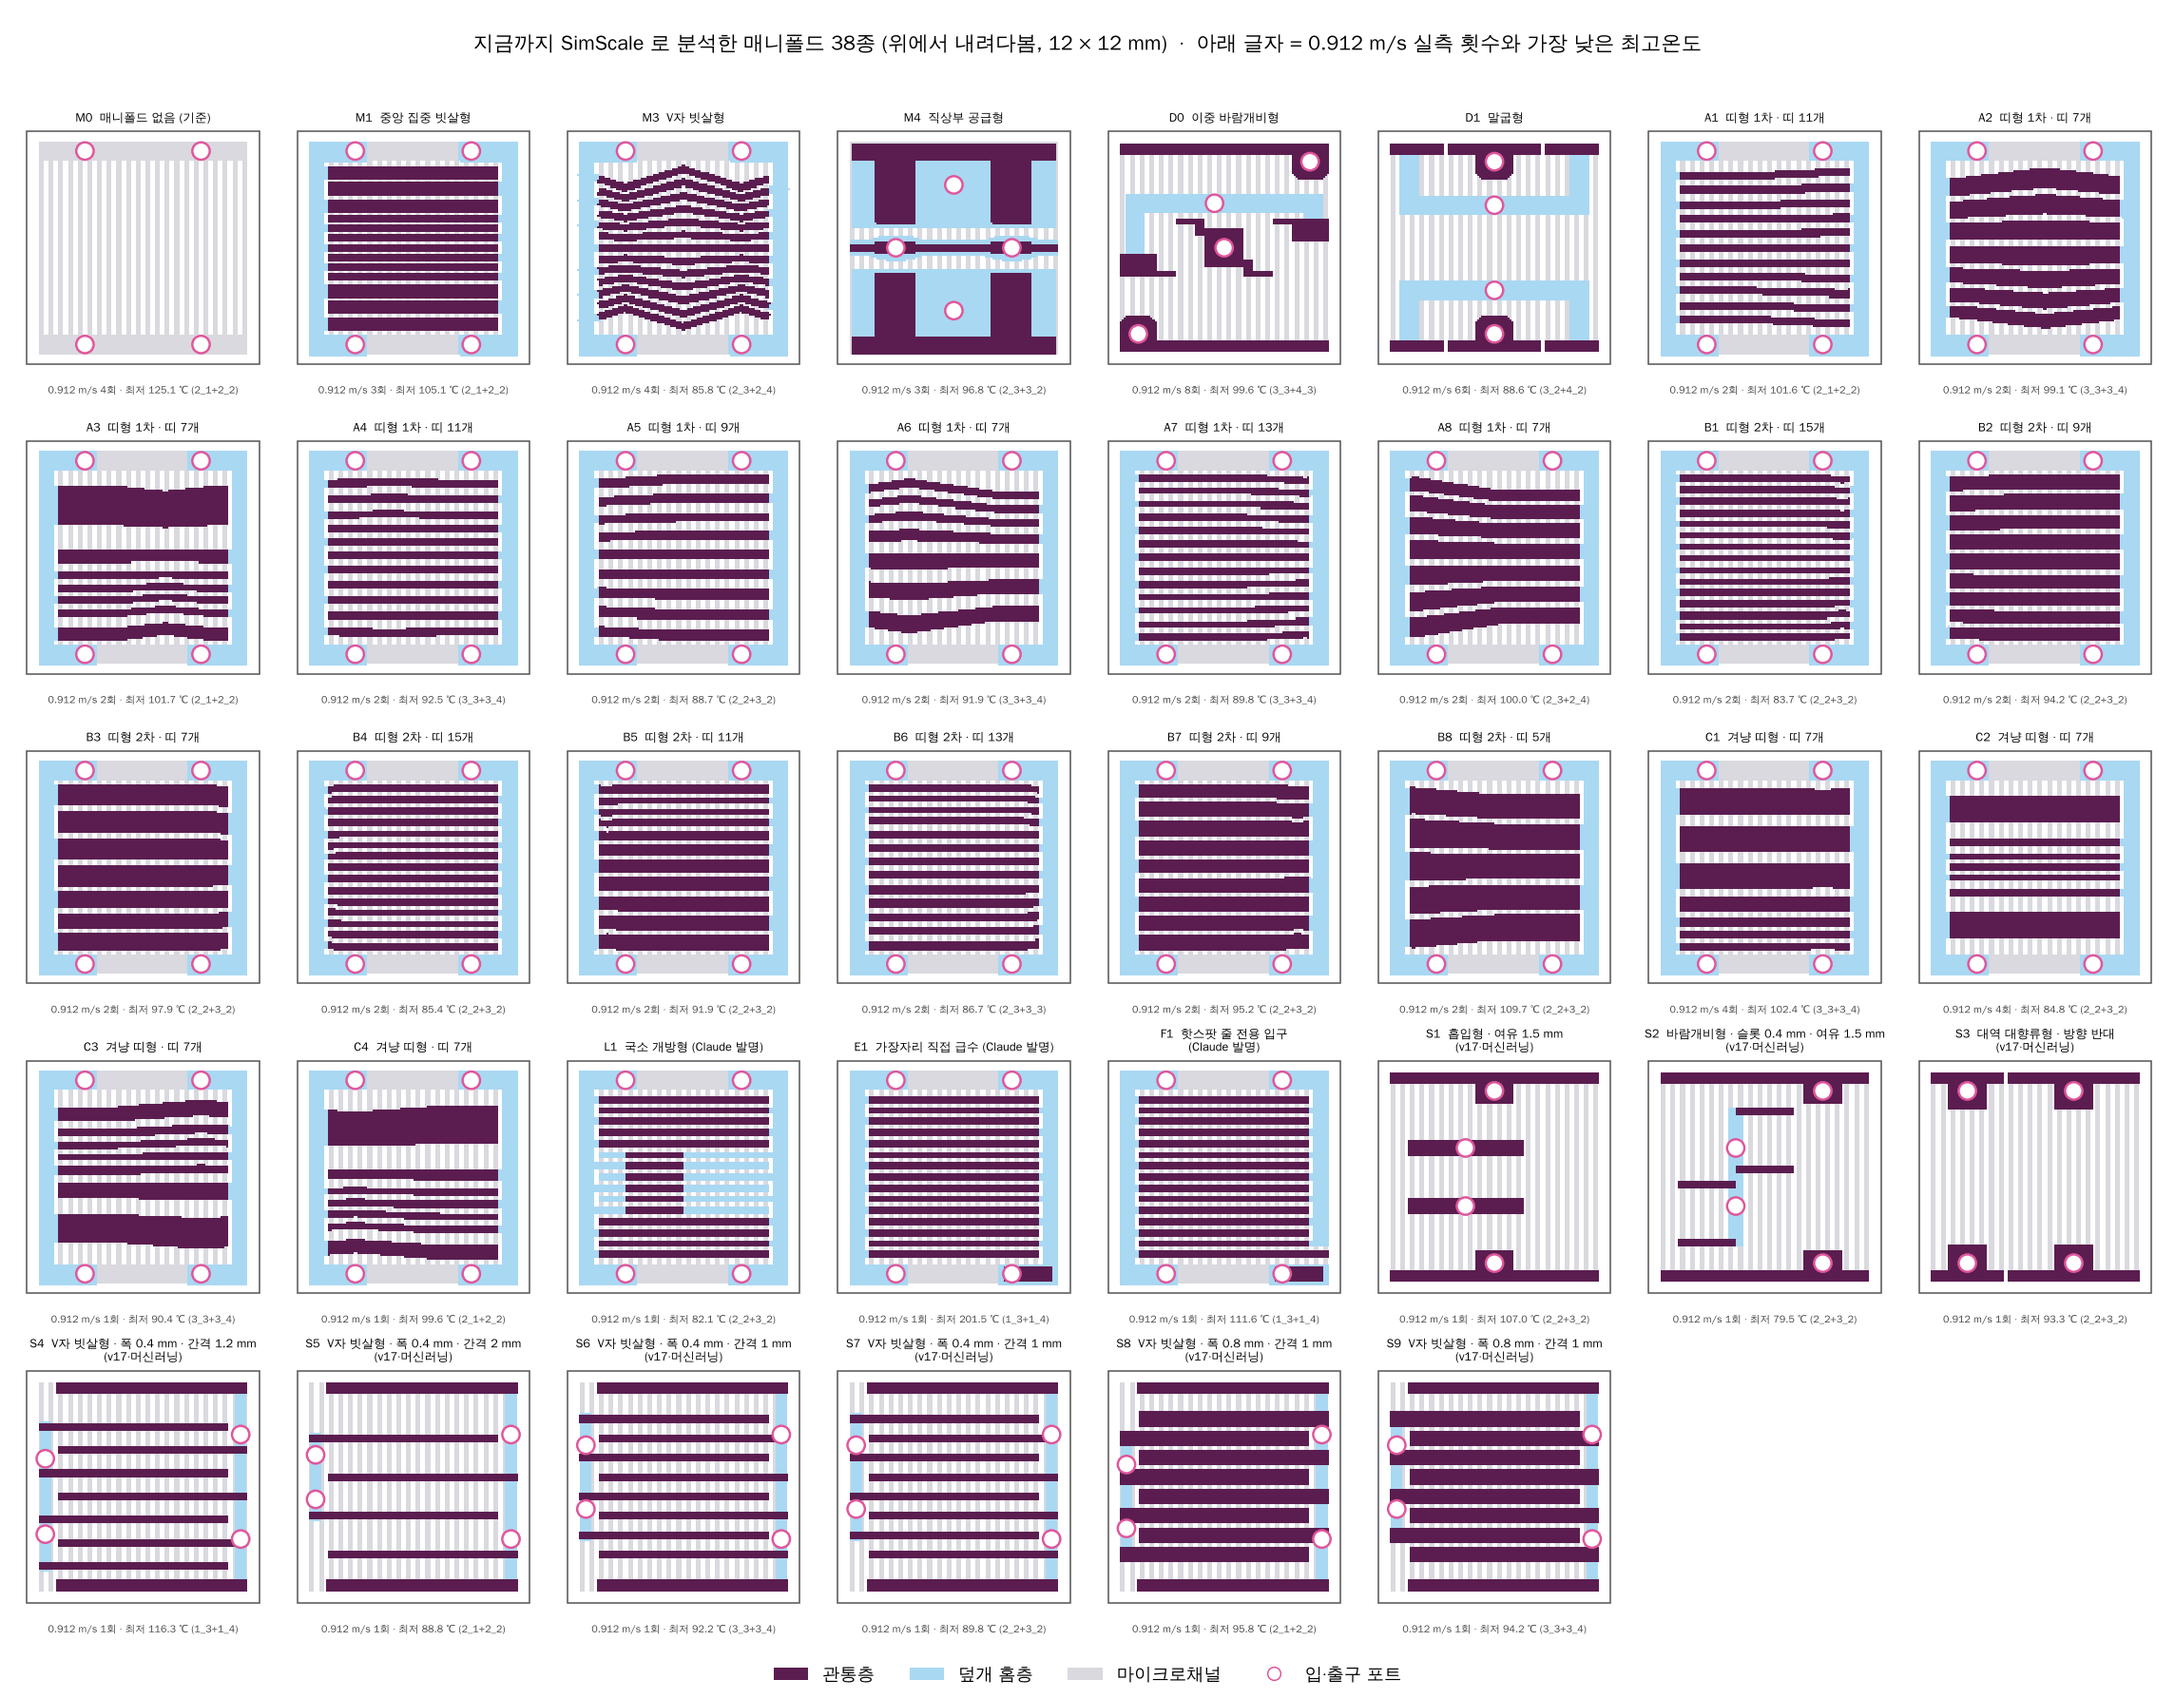
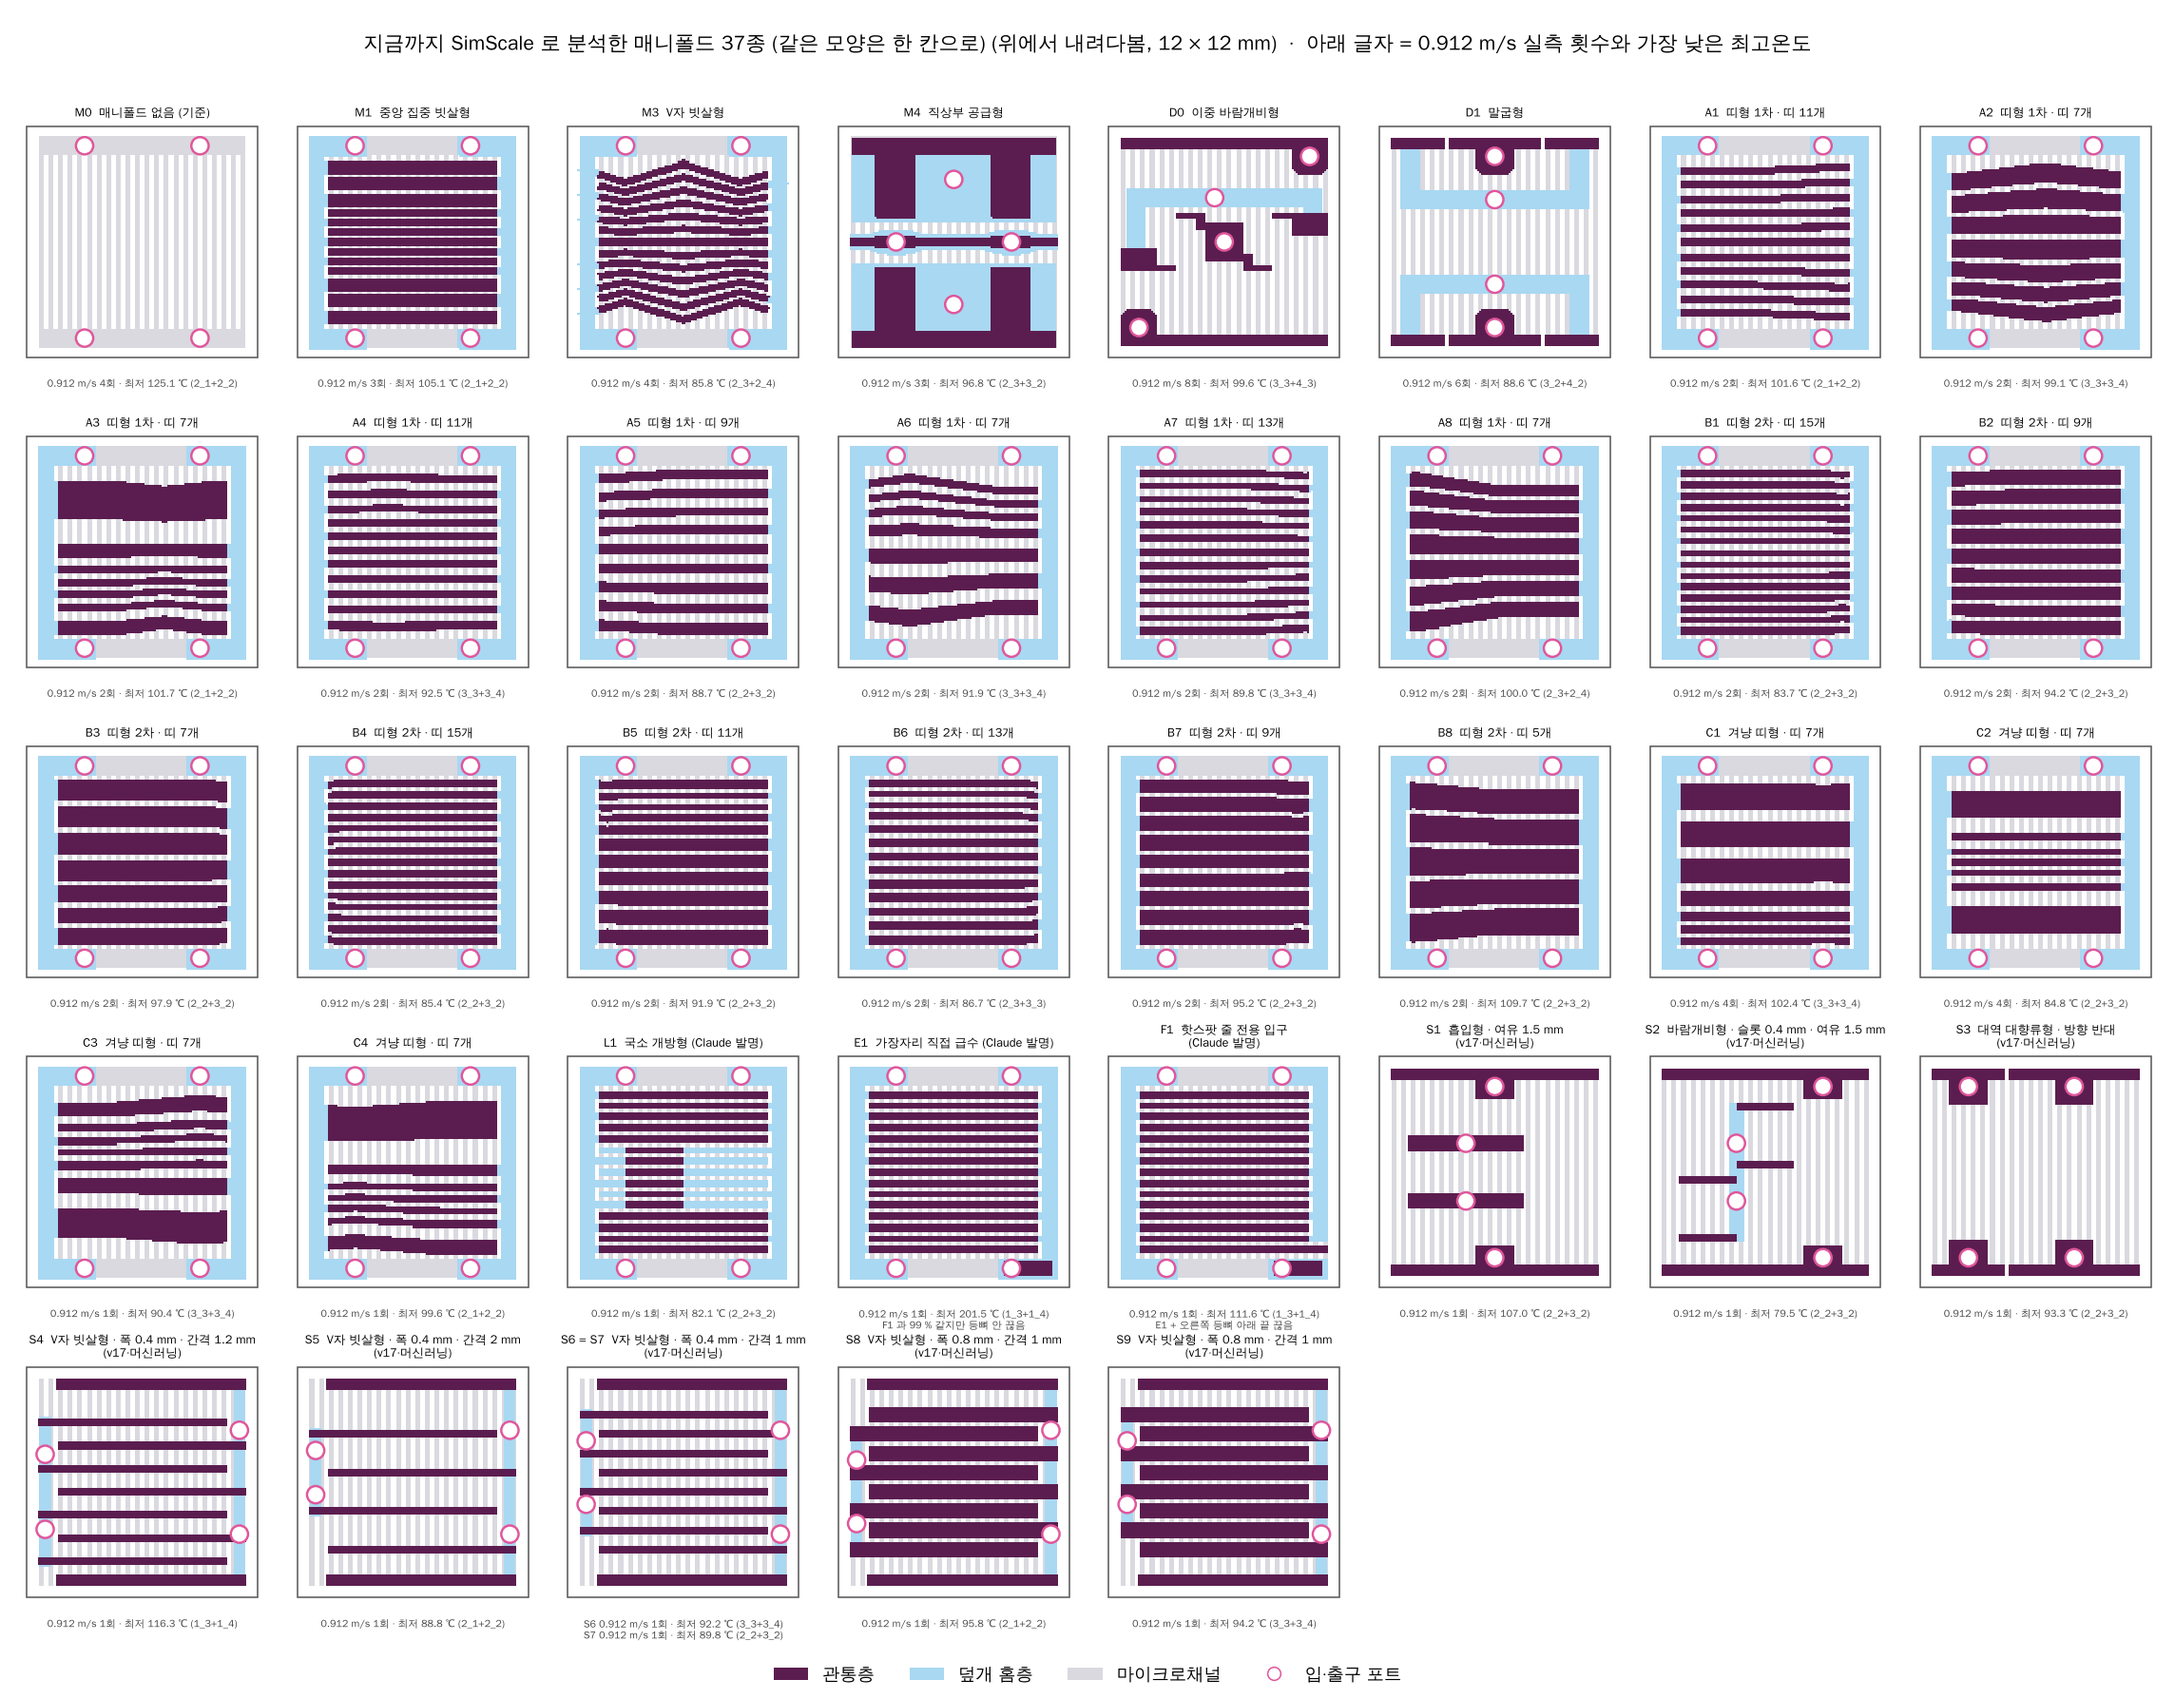
Gallery: merge identical shapes (S6 = S7), note E1 vs F1 difference
Claude-Session: https://claude.ai/code/session_01F34fVoYo4PK5WAY5b6GT71

Changed region(s): [[0.0, 0.0616, 0.993, 0.9849], [0.2172, 0.0, 0.8378, 0.0308]]

diff --git a/manifold_agent/geometry/plot_gallery.py b/manifold_agent/geometry/plot_gallery.py
@@ -14,11 +14,14 @@ C_P, C_U, C_CH, C_PORT = "#5b1d4f", "#a9d8f2", "#d9d9df", "#e0569b"
 STRIP_PORTS = [[3, 1], [3, 11], [9, 1], [9, 11]]
 
 runs = list(csv.DictReader(open(ROOT / "data/direct_runs.csv", encoding="utf-8")))
-def record(d):
-    r = [x for x in runs if x["design"] == d and abs(float(x["inlet_velocity_m_s"]) - 0.912) < 1e-3]
-    if not r: return ""
-    b = min(r, key=lambda x: float(x["Tmax_bottom_C"]))
-    return f"0.912 m/s {len(r)}회 · 최저 {float(b['Tmax_bottom_C']):.1f} ℃ ({b['heat'].split('at ')[1].replace(',', '+')})"
+def record(names):
+    out = []
+    for d in names.split(" = "):
+        r = [x for x in runs if x["design"] == d and abs(float(x["inlet_velocity_m_s"]) - 0.912) < 1e-3]
+        if not r: continue
+        b = min(r, key=lambda x: float(x["Tmax_bottom_C"]))
+        out.append(f"{d + ' ' if ' = ' in names else ''}0.912 m/s {len(r)}회 · 최저 {float(b['Tmax_bottom_C']):.1f} ℃ ({b['heat'].split('at ')[1].replace(',', '+')})")
+    return "\n".join(out)
 
 D = json.loads((ROOT / "geometry/src/designs.json").read_text())
 items = []   # (이름, 설명, P, U, 포트, 헤더형)
@@ -47,6 +50,21 @@ for i in range(1, 20):
     short = base.replace("(양끝 공급, 핫스팟 위 배출) ", "").replace(" · 슬롯이 핫스팟 바깥", "").replace("빗살 폭 ", "폭 ").replace("좌우 여유 ", "여유 ").strip(" ·")
     items.append((f"S{i}", f"{short} (v17·머신러닝)", cav, gro, m["pin"] + m["pout"], 0))
 
+# 같은 모양 합치기: 관통층·덮개 홈이 둘 다 99.9 % 이상 같으면 한 칸 (예: S6 = S7, 핫스팟만 다르게 돌림)
+def _n(A):
+    if A is None: return None
+    A = np.asarray(A)
+    return (A.reshape(120, 2, 120, 2).max(axis=(1, 3)) if A.shape[0] == 240 else A) > 0
+_iou = lambda X, Y: (X & Y).sum() / max((X | Y).sum(), 1)
+merged = []
+for it in items:
+    for m in merged:
+        if it[2] is not None and m[2] is not None and it[5] == m[5] and _iou(_n(it[2]), _n(m[2])) > .999 and _iou(_n(it[3]), _n(m[3])) > .999:
+            m[0] = m[0] + " = " + it[0]; break
+    else:
+        merged.append(list(it))
+items = [tuple(m) for m in merged]
+NOTE = {"F1": "E1 + 오른쪽 등뼈 아래 끝 끊음", "E1": "F1 과 99 % 같지만 등뼈 안 끊음"}
 ncol = 8; nrow = -(-len(items) // ncol)
 fig, axs = plt.subplots(nrow, ncol, figsize=(ncol * 2.6, nrow * 3.25))
 for ax in axs.flat: ax.axis("off")
@@ -65,12 +83,12 @@ for ax, (name, desc, P, U, ports, head) in zip(axs.flat, items):
         ax.add_patch(Circle((px, py), 0.45, fc="white", ec=C_PORT, lw=1.6, zorder=4))
     ax.set_xlim(-.3, 12.3); ax.set_ylim(-.3, 12.3); ax.set_aspect("equal")
     ax.set_title(f"{name}  " + (desc.replace(" (", "\n(", 1) if len(desc) > 22 else desc), fontsize=8.3, weight="bold", pad=3)
-    ax.text(6, -1.1, record(name), ha="center", va="top", fontsize=7, color="#444")
+    ax.text(6, -1.1, record(name) + (("\n" + NOTE[name]) if name in NOTE else ""), ha="center", va="top", fontsize=7, color="#444")
 from matplotlib.patches import Patch
 from matplotlib.lines import Line2D
 fig.legend([Patch(fc=C_P), Patch(fc=C_U), Patch(fc=C_CH), Line2D([], [], marker="o", ls="", mfc="white", mec=C_PORT, ms=9)],
            ["관통층", "덮개 홈층", "마이크로채널", "입·출구 포트"], loc="lower center", ncol=4, fontsize=12, frameon=False)
-fig.suptitle(f"지금까지 SimScale 로 분석한 매니폴드 {len(items)}종 (위에서 내려다봄, 12 × 12 mm)  ·  아래 글자 = 0.912 m/s 실측 횟수와 가장 낮은 최고온도",
+fig.suptitle(f"지금까지 SimScale 로 분석한 매니폴드 {len(items)}종 (같은 모양은 한 칸으로) (위에서 내려다봄, 12 × 12 mm)  ·  아래 글자 = 0.912 m/s 실측 횟수와 가장 낮은 최고온도",
              fontsize=14, weight="bold")
 fig.tight_layout(rect=(0, .03, 1, .97)); out = ROOT / "out/gallery_all_manifolds.png"; fig.savefig(out, dpi=110)
 print("저장", out, len(items), "종")
